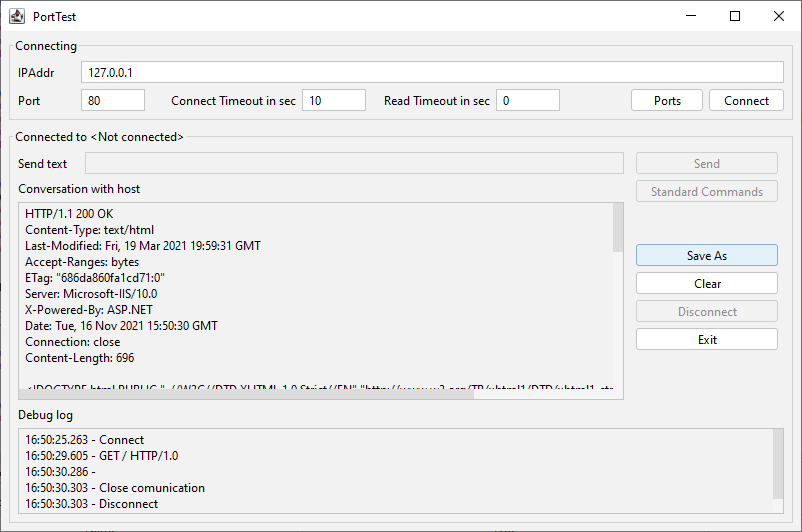
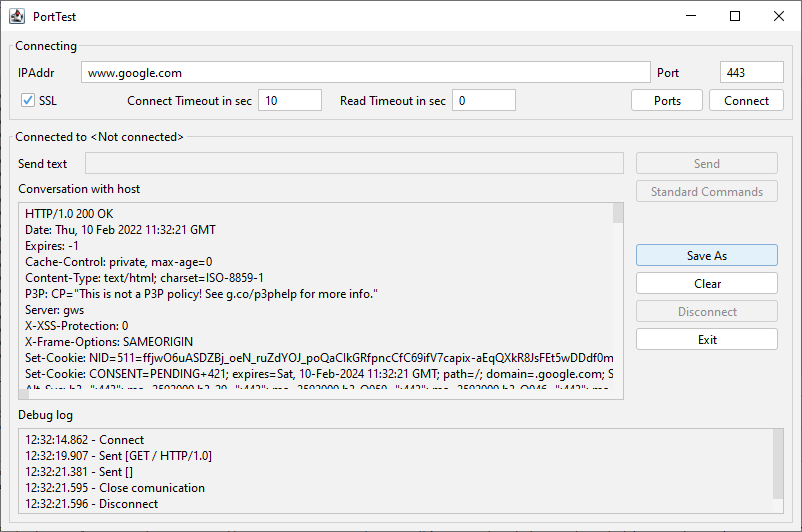
Add SSL Support

diff --git a/src/main/java/it/baccan/porttest/PortTest.java b/src/main/java/it/baccan/porttest/PortTest.java
@@ -64,6 +64,7 @@ public class PortTest extends javax.swing.JFrame {
         jTextFieldConnectTimeout = new javax.swing.JTextField();
         jLabel7 = new javax.swing.JLabel();
         jTextFieldReadTimeout = new javax.swing.JTextField();
+        jCheckBoxSSL = new javax.swing.JCheckBox();
         jPanel2 = new javax.swing.JPanel();
         jLabel3 = new javax.swing.JLabel();
         jTextFieldSendText = new javax.swing.JTextField();
@@ -112,20 +113,26 @@ public class PortTest extends javax.swing.JFrame {
 
         jTextFieldReadTimeout.setText("0");
 
+        jCheckBoxSSL.setText("SSL");
+
         javax.swing.GroupLayout jPanel1Layout = new javax.swing.GroupLayout(jPanel1);
         jPanel1.setLayout(jPanel1Layout);
         jPanel1Layout.setHorizontalGroup(
             jPanel1Layout.createParallelGroup(javax.swing.GroupLayout.Alignment.LEADING)
             .addGroup(jPanel1Layout.createSequentialGroup()
                 .addContainerGap()
-                .addGroup(jPanel1Layout.createParallelGroup(javax.swing.GroupLayout.Alignment.LEADING, false)
-                    .addComponent(jLabel1, javax.swing.GroupLayout.DEFAULT_SIZE, javax.swing.GroupLayout.DEFAULT_SIZE, Short.MAX_VALUE)
-                    .addComponent(jLabel2, javax.swing.GroupLayout.PREFERRED_SIZE, 57, javax.swing.GroupLayout.PREFERRED_SIZE))
-                .addPreferredGap(javax.swing.LayoutStyle.ComponentPlacement.RELATED)
                 .addGroup(jPanel1Layout.createParallelGroup(javax.swing.GroupLayout.Alignment.LEADING)
                     .addGroup(jPanel1Layout.createSequentialGroup()
-                        .addComponent(jTextFieldPort, javax.swing.GroupLayout.PREFERRED_SIZE, javax.swing.GroupLayout.DEFAULT_SIZE, javax.swing.GroupLayout.PREFERRED_SIZE)
-                        .addGap(26, 26, 26)
+                        .addComponent(jLabel1, javax.swing.GroupLayout.PREFERRED_SIZE, 57, javax.swing.GroupLayout.PREFERRED_SIZE)
+                        .addPreferredGap(javax.swing.LayoutStyle.ComponentPlacement.RELATED)
+                        .addComponent(jTextFieldIP)
+                        .addPreferredGap(javax.swing.LayoutStyle.ComponentPlacement.RELATED)
+                        .addComponent(jLabel2, javax.swing.GroupLayout.PREFERRED_SIZE, 57, javax.swing.GroupLayout.PREFERRED_SIZE)
+                        .addPreferredGap(javax.swing.LayoutStyle.ComponentPlacement.RELATED)
+                        .addComponent(jTextFieldPort, javax.swing.GroupLayout.PREFERRED_SIZE, javax.swing.GroupLayout.DEFAULT_SIZE, javax.swing.GroupLayout.PREFERRED_SIZE))
+                    .addGroup(jPanel1Layout.createSequentialGroup()
+                        .addComponent(jCheckBoxSSL)
+                        .addGap(68, 68, 68)
                         .addComponent(jLabel6)
                         .addPreferredGap(javax.swing.LayoutStyle.ComponentPlacement.RELATED)
                         .addComponent(jTextFieldConnectTimeout, javax.swing.GroupLayout.PREFERRED_SIZE, javax.swing.GroupLayout.DEFAULT_SIZE, javax.swing.GroupLayout.PREFERRED_SIZE)
@@ -133,11 +140,10 @@ public class PortTest extends javax.swing.JFrame {
                         .addComponent(jLabel7)
                         .addPreferredGap(javax.swing.LayoutStyle.ComponentPlacement.RELATED)
                         .addComponent(jTextFieldReadTimeout, javax.swing.GroupLayout.PREFERRED_SIZE, javax.swing.GroupLayout.DEFAULT_SIZE, javax.swing.GroupLayout.PREFERRED_SIZE)
-                        .addPreferredGap(javax.swing.LayoutStyle.ComponentPlacement.RELATED, 71, Short.MAX_VALUE)
+                        .addPreferredGap(javax.swing.LayoutStyle.ComponentPlacement.RELATED, 115, Short.MAX_VALUE)
                         .addComponent(jButtonPorts)
                         .addPreferredGap(javax.swing.LayoutStyle.ComponentPlacement.RELATED)
-                        .addComponent(jButtonConnect))
-                    .addComponent(jTextFieldIP))
+                        .addComponent(jButtonConnect)))
                 .addContainerGap())
         );
         jPanel1Layout.setVerticalGroup(
@@ -146,17 +152,18 @@ public class PortTest extends javax.swing.JFrame {
                 .addContainerGap()
                 .addGroup(jPanel1Layout.createParallelGroup(javax.swing.GroupLayout.Alignment.BASELINE)
                     .addComponent(jLabel1)
-                    .addComponent(jTextFieldIP, javax.swing.GroupLayout.PREFERRED_SIZE, javax.swing.GroupLayout.DEFAULT_SIZE, javax.swing.GroupLayout.PREFERRED_SIZE))
+                    .addComponent(jTextFieldIP, javax.swing.GroupLayout.PREFERRED_SIZE, javax.swing.GroupLayout.DEFAULT_SIZE, javax.swing.GroupLayout.PREFERRED_SIZE)
+                    .addComponent(jLabel2)
+                    .addComponent(jTextFieldPort, javax.swing.GroupLayout.PREFERRED_SIZE, javax.swing.GroupLayout.DEFAULT_SIZE, javax.swing.GroupLayout.PREFERRED_SIZE))
                 .addPreferredGap(javax.swing.LayoutStyle.ComponentPlacement.RELATED)
                 .addGroup(jPanel1Layout.createParallelGroup(javax.swing.GroupLayout.Alignment.BASELINE)
-                    .addComponent(jLabel2)
-                    .addComponent(jTextFieldPort, javax.swing.GroupLayout.PREFERRED_SIZE, javax.swing.GroupLayout.DEFAULT_SIZE, javax.swing.GroupLayout.PREFERRED_SIZE)
                     .addComponent(jButtonConnect)
                     .addComponent(jButtonPorts)
                     .addComponent(jLabel6)
                     .addComponent(jTextFieldConnectTimeout, javax.swing.GroupLayout.PREFERRED_SIZE, javax.swing.GroupLayout.DEFAULT_SIZE, javax.swing.GroupLayout.PREFERRED_SIZE)
                     .addComponent(jLabel7)
-                    .addComponent(jTextFieldReadTimeout, javax.swing.GroupLayout.PREFERRED_SIZE, javax.swing.GroupLayout.DEFAULT_SIZE, javax.swing.GroupLayout.PREFERRED_SIZE))
+                    .addComponent(jTextFieldReadTimeout, javax.swing.GroupLayout.PREFERRED_SIZE, javax.swing.GroupLayout.DEFAULT_SIZE, javax.swing.GroupLayout.PREFERRED_SIZE)
+                    .addComponent(jCheckBoxSSL))
                 .addContainerGap(javax.swing.GroupLayout.DEFAULT_SIZE, Short.MAX_VALUE))
         );
 
@@ -424,7 +431,7 @@ public class PortTest extends javax.swing.JFrame {
             jTextAreaDebug.setText("");
             logToTextArea("Connect");
             portConnector = new PortConnector(jTextFieldIP.getText(), Integer.parseInt(jTextFieldPort.getText()));
-            portConnector.connect(Integer.parseInt(jTextFieldConnectTimeout.getText()), Integer.parseInt(jTextFieldReadTimeout.getText()));
+            portConnector.connect(Integer.parseInt(jTextFieldConnectTimeout.getText()), Integer.parseInt(jTextFieldReadTimeout.getText()), jCheckBoxSSL.isSelected());
             socketOutputReader = new SocketOutputReader(portConnector.getIntputStream());
             socketOutputReader.start();
             online();
@@ -519,6 +526,7 @@ public class PortTest extends javax.swing.JFrame {
     private javax.swing.JButton jButtonSaveAs;
     private javax.swing.JButton jButtonSend;
     private javax.swing.JButton jButtonStandardCommand;
+    private javax.swing.JCheckBox jCheckBoxSSL;
     private javax.swing.JLabel jLabel1;
     private javax.swing.JLabel jLabel2;
     private javax.swing.JLabel jLabel3;

diff --git a/src/main/java/it/baccan/porttest/PortConnector.java b/src/main/java/it/baccan/porttest/PortConnector.java
@@ -23,6 +23,8 @@ import java.net.InetSocketAddress;
 import java.net.Socket;
 import java.net.SocketAddress;
 import java.util.Objects;
+import javax.net.ssl.SSLSocket;
+import javax.net.ssl.SSLSocketFactory;
 
 /**
  *
@@ -42,13 +44,23 @@ public class PortConnector {
 
     private Socket socket;
 
-    public void connect(final int connectTimeout, final int readTimeout) throws IOException {
+    public void connect(final int connectTimeout, final int readTimeout, final boolean ssl) throws IOException {
         SocketAddress socketAddress = new InetSocketAddress(remoteIp, remotePort);
-        socket = new Socket();
+        if( ssl ){            
+            SSLSocketFactory factory = (SSLSocketFactory)SSLSocketFactory.getDefault();
+            socket = factory.createSocket();
+        } else {
+            socket = new Socket();
+        }
+        
         socket.connect(socketAddress, connectTimeout * 1000);
         socket.setSoTimeout(readTimeout * 1000);
         inputStream = socket.getInputStream();
         outputStream = socket.getOutputStream();
+
+        if( ssl ){            
+            ((SSLSocket)socket).startHandshake();
+        }
     }
 
     public OutputStream getOutputStream() {

diff --git a/README.md b/README.md
@@ -1,6 +1,6 @@
 # PortTest
 
-Check TCP communication of a socket port
+Check TCP communication of a socket port with plain text or SSL connection
 
 ## Documentation
 
